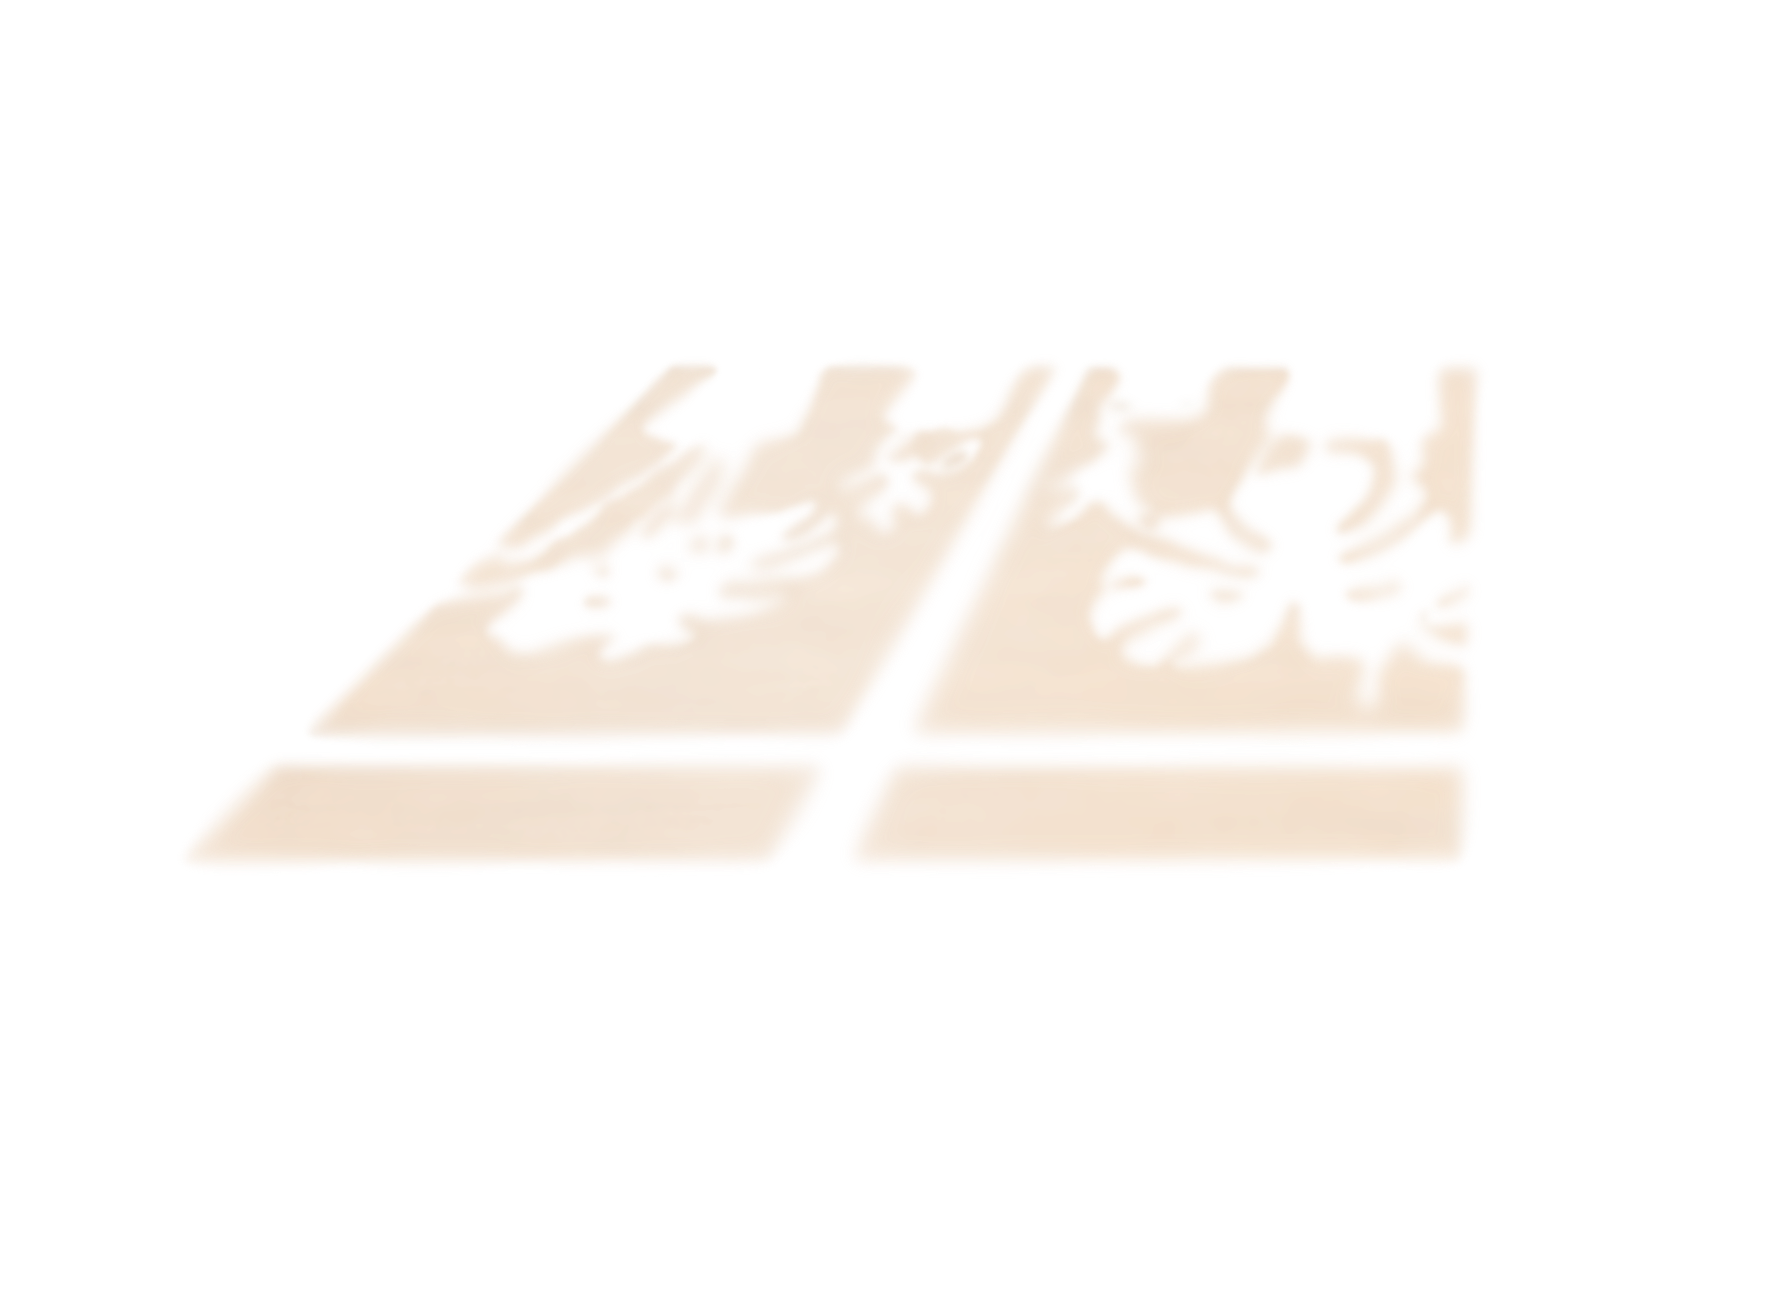
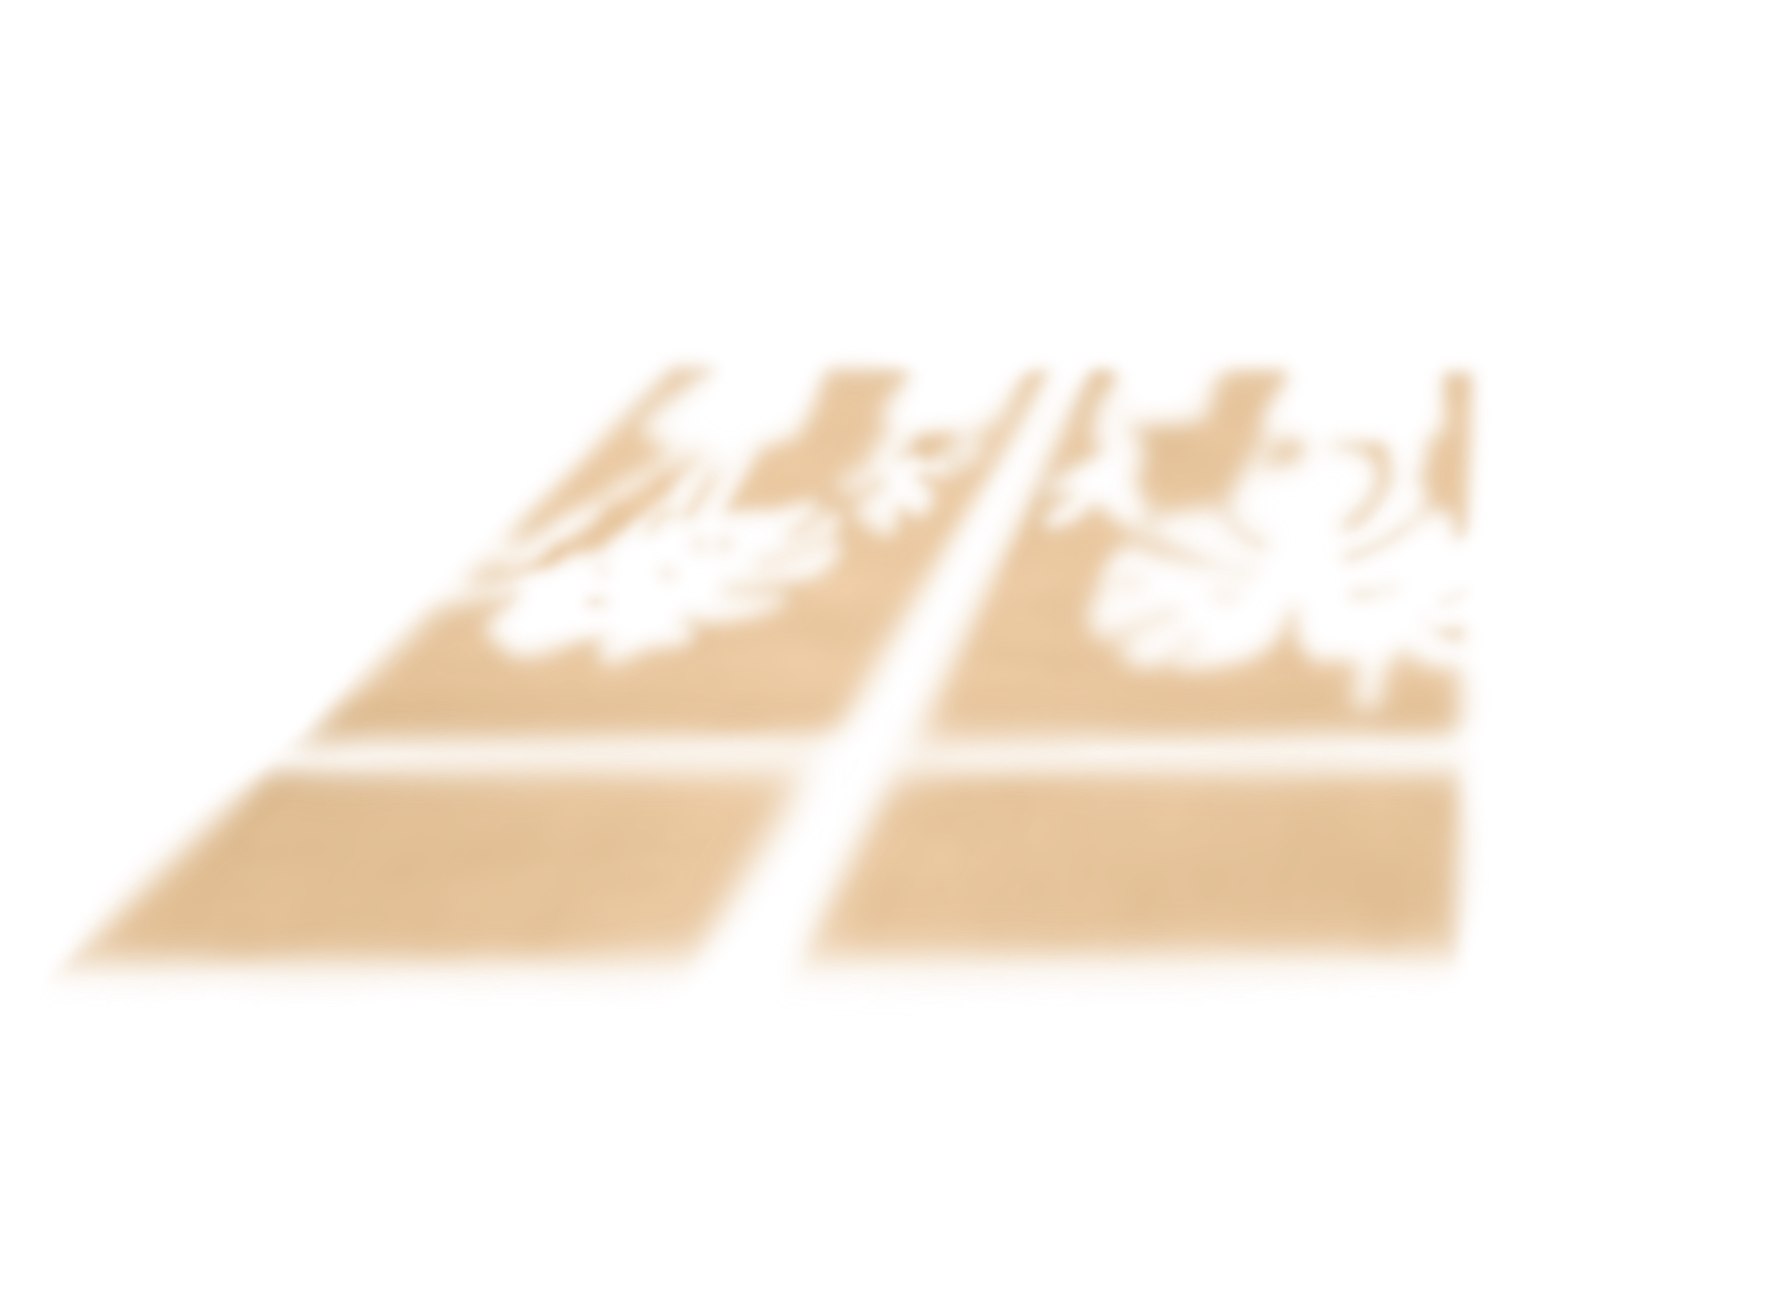
.

diff --git a/index.html b/index.html
@@ -2779,7 +2779,7 @@
             stickerRotation: 0,
             stickerScaleX: 1,
             stickerScaleY: 1,
-            opacity: 0.35
+            opacity: 0.6
           }                     
           ];
 